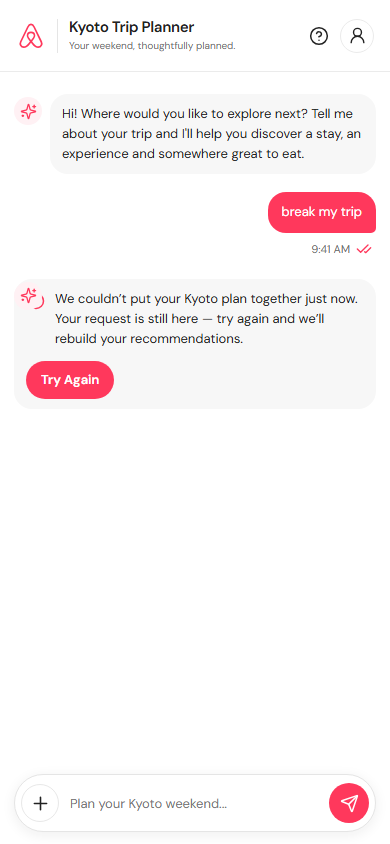
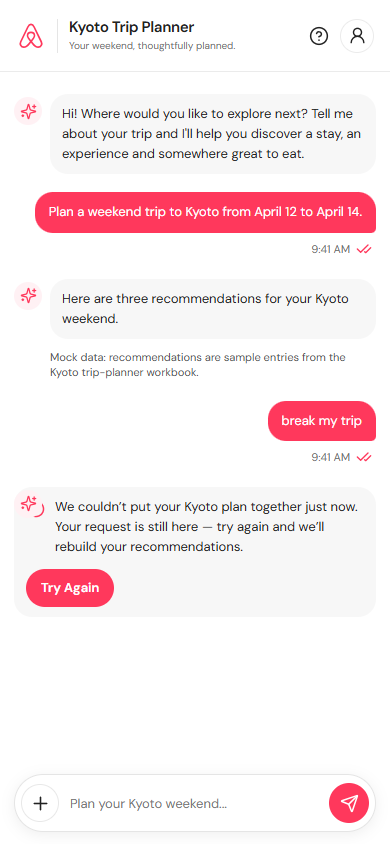
Add verified Kyoto research session evidence

diff --git a/README.md b/README.md
@@ -2,43 +2,21 @@
 
 An Airbnb-inspired conversational trip planner that helps guests discover a stay, an experience, and food recommendations for a Kyoto weekend through a single chat request.
 
-## Research Session Readiness
+## Research Session Checklist
 
-**Prototype:** [Open the public Kyoto Trip Planner](https://kyoto-trip-planner-aatifak2255-8273.vercel.app)
+**Public prototype:** [Open the Kyoto Trip Planner](https://kyoto-trip-planner-six.vercel.app/)
 
-**Repository:** [Azodeuse9/kyoto-trip-planner](https://github.com/Azodeuse9/kyoto-trip-planner)
+**GitHub repository:** [Azodeuse9/kyoto-trip-planner](https://github.com/Azodeuse9/kyoto-trip-planner)
 
-### Access and first request
-
-- [ ] Public prototype opens without login.
-- [ ] Guest can submit one natural-language Kyoto trip request.
-- [ ] Original request remains visible.
-- [ ] Composer locks while thinking.
-- [ ] Thinking indicator appears before cards.
-
-### Three-card response
-
-- [ ] One request returns Stay, Experience, and Food together.
-- [ ] Cards appear in this order: Stay → Experience → Food.
-- [ ] All three cards are visually distinct.
-- [ ] No blank or broken cards appear.
-
-### Failure and recovery
-
-- [ ] `break my trip` triggers the forced failure.
-- [ ] Original request remains visible.
-- [ ] Friendly inline error and Try Again button appear.
-- [ ] No cards are shown during failure.
-- [ ] Retry reuses the original turn without duplicating the message.
-- [ ] Thinking appears and all three cards return after retry.
-- [ ] Repeat failure and retry work.
-
-### Phone and laptop
-
-- [ ] Mobile cards stack vertically and remain readable.
-- [ ] Laptop layout displays all three cards clearly.
-- [ ] No horizontal overflow or clipped controls.
-- [ ] Composer and Try Again remain usable on both sizes.
+- [x] Three of three recommendation cards appear together in Stay → Experience → Food order.
+- [x] No blank chat moment: the thinking indicator appears before recommendations.
+- [x] Mock data is disclosed in the chat and documented below.
+- [x] Stay, Experience, and Food use three distinct card layouts.
+- [x] `break my trip` triggers the forced error on the live deployment without file edits.
+- [x] The inline error bubble shows Try Again, with no recommendation cards during failure.
+- [x] Retry reuses the original turn, shows thinking, and restores all three cards; repeated failure and recovery work.
+- [x] The public Vercel URL opens without login in a fresh private browser context.
+- [x] Laptop (1440 × 1000) and phone (390 × 844) layouts work without horizontal overflow or clipped cards; the composer remains usable.
 
 ### Guest observation log
 
@@ -55,19 +33,37 @@ Record observations during the researcher session; no guest results have been en
 | Guest 7 | |
 | Guest 8 | |
 
-### Desktop and mobile screenshots
+## Research Session Browser Evidence
 
-![Desktop happy path at 1440 × 1000](public/screenshots/06-desktop-happy-path.png)
+Captured from fresh private browser contexts on the public Vercel deployment. Full-page captures keep all recommendations visible on the phone.
 
-![Desktop error state at 1440 × 1000](public/screenshots/07-desktop-error-state.png)
+### Laptop — 1440 × 1000
 
-![Desktop retry success at 1440 × 1000](public/screenshots/08-desktop-retry-success.png)
+**Happy path**
 
-![Mobile happy path at 390 × 844](public/screenshots/09-mobile-happy-path.png)
+![Laptop happy path at 1440 × 1000](public/screenshots/06-laptop-happy-path.png)
 
-![Mobile error state at 390 × 844](public/screenshots/10-mobile-error-state.png)
+**Error state**
 
-![Mobile retry success at 390 × 844](public/screenshots/11-mobile-retry-success.png)
+![Laptop error state at 1440 × 1000](public/screenshots/07-laptop-error-state.png)
+
+**Retry success**
+
+![Laptop retry success at 1440 × 1000](public/screenshots/08-laptop-retry-success.png)
+
+### Phone — 390 × 844
+
+**Happy path**
+
+![Phone happy path at 390 × 844](public/screenshots/09-mobile-happy-path.png)
+
+**Error state**
+
+![Phone error state at 390 × 844](public/screenshots/10-mobile-error-state.png)
+
+**Retry success**
+
+![Phone retry success at 390 × 844](public/screenshots/11-mobile-retry-success.png)
 
 ## Project Overview
 
@@ -220,7 +216,7 @@ kyoto-trip-planner/
 
 ## Data Source
 
-The recommendation content is based on the Kyoto weekend workbook, using one mock response item from each worksheet: Stays, Experiences, and Food.
+Recommendations are workbook-backed mock data, using one sample response item from each worksheet: Stays, Experiences, and Food. They are illustrative and do not represent live availability or bookings.
 
 ## Project Status
 
